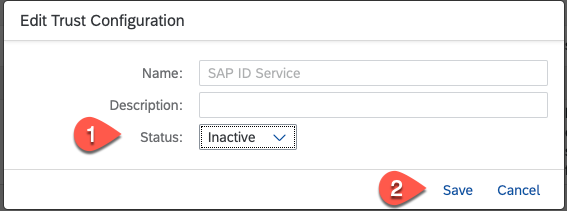
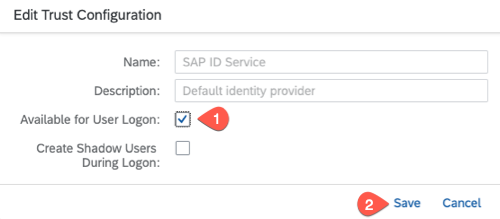
update screenshot

Changed region(s): [[0.0, 0.0, 1.0, 1.0], [0.24, 0.2559, 0.33, 0.3697]]

diff --git a/mission/trust-setup/README.md b/mission/trust-setup/README.md
@@ -156,10 +156,13 @@ Establishing a trust is done by exchanging the SAML certificate of each system.
 
 You can set the SAP SuccessFactors Identity Provider as the 'default' Identity Provider for your applications. If not, when you open your extension application, you will be prompted to choose between the default SAP Identity Provider or the configured SuccessFactors Identity Provider. If you disable the Default Identity provider, you will have to login to all SAP BTP Services (like SAP Business Application Studio) and extension applications with your SuccessFactors IDP, so follow the steps to assign the relevant roles to your SFSF user.
 
-1.	Go back to your SAP BTP subaccount cockpit, choose **Security** > **Trust Configuration**, you have now to deactivate the default identity provider. To do that, **Edit** the default identity provider and set its status to **Inactive**. **Save** the changes.
+1.	Go back to your SAP BTP subaccount cockpit, choose **Security** > **Trust Configuration**, you have now to deactivate the default identity provider. To do that, choose **Edit** under **Actions** for the default identity provider.
 
-    ![IDP settings ](./images/scp-9a.png)
-    ![IDP settings ](./images/scp-9b.png)
+   ![IDP settings ](./images/scp-9a.png)
+   
+   In the checkbox for **Available for User Logon**, deselect the option and choose **Save**, so that the default identity provider is not prompted for logon for the BTP applications deployed in this subaccount. 
+   
+   ![IDP settings ](./images/scp-9b.png)
     
 
 2. Map the SAP SuccessFactors user to the SAP BTP User roles. To do that, choose  **Role Collections** and click on the **Extension_App_Administrator** role collection.
